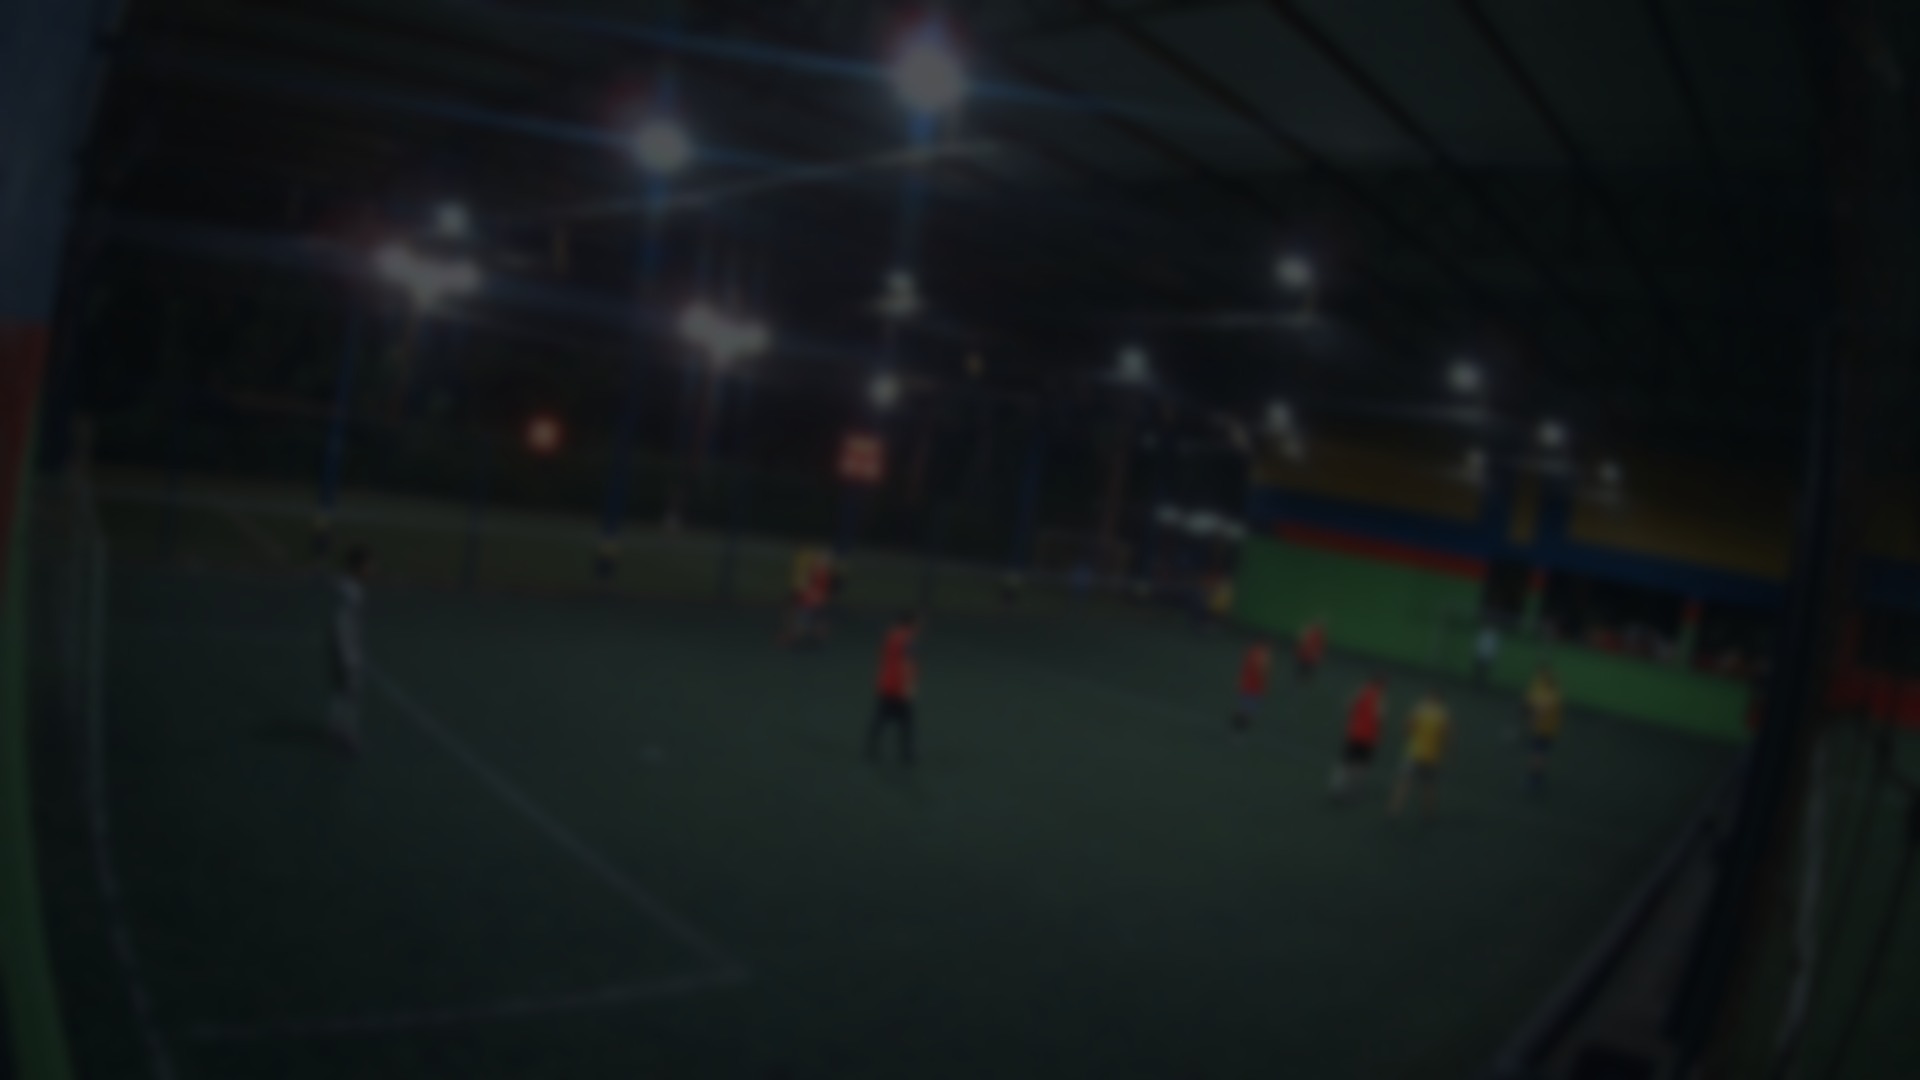
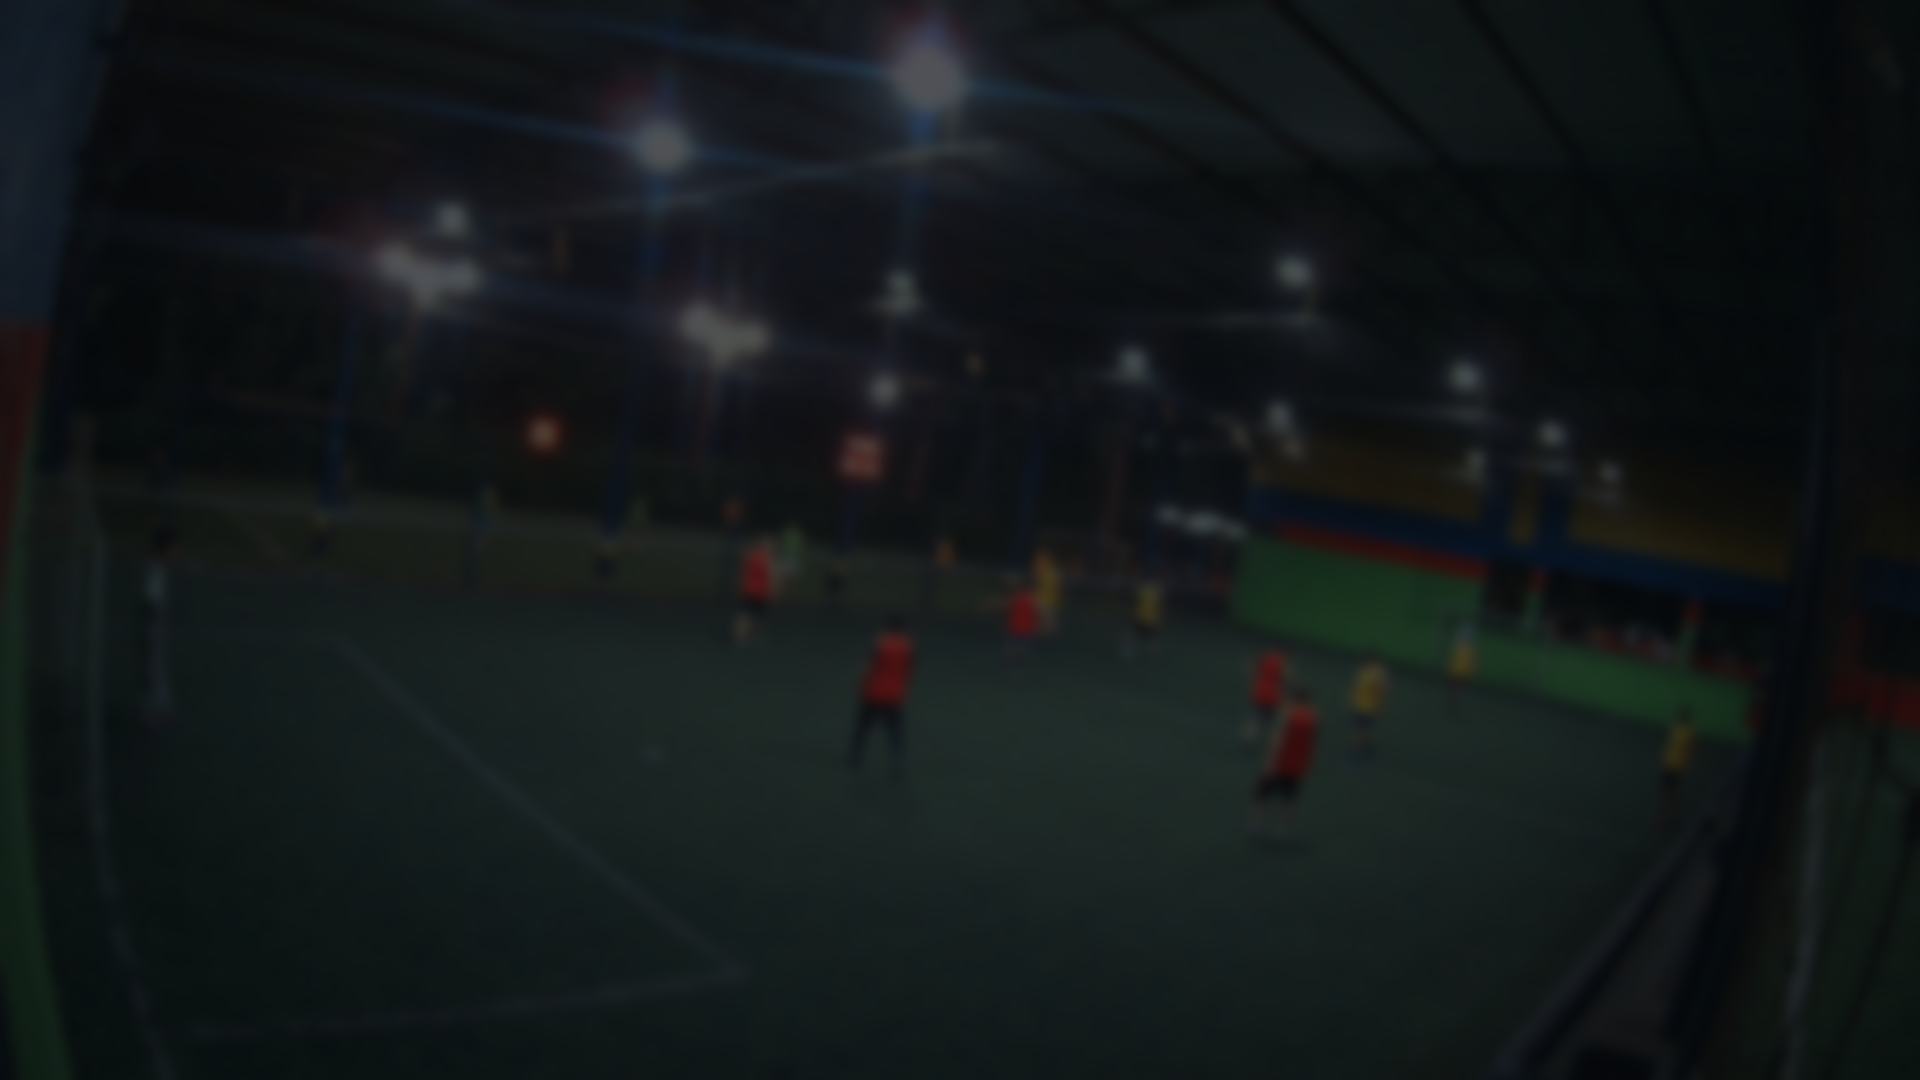
Remover desfoque do fundo das cartelas, mantendo a imagem nitida do video

diff --git a/web/assistente.html b/web/assistente.html
@@ -802,9 +802,9 @@
           <div style="margin-top:8px">
             <div class="row" style="justify-content:space-between; font-size:12px">
               <span>Desfoque (Blur TV)</span>
-              <span id="lblFundoDesfoque" style="font-weight:700">6 px</span>
+              <span id="lblFundoDesfoque" style="font-weight:700">0 px (sem desfoque)</span>
             </div>
-            <input type="range" id="fundoDesfoque" min="0" max="25" value="6" style="width:100%">
+            <input type="range" id="fundoDesfoque" min="0" max="25" value="0" style="width:100%">
           </div>
 
           <!-- Vinheta -->
@@ -3522,13 +3522,13 @@ function atualizarFiltrosCssFundo(){
   const b = parseFloat($('#fundoBrilho').value) || 55;
   const s = parseFloat($('#fundoSaturacao').value) || 115;
   const c = parseFloat($('#fundoContraste').value) || 115;
-  const d = parseFloat($('#fundoDesfoque').value) || 6;
+  const d = parseFloat($('#fundoDesfoque').value) || 0;
   const v = parseFloat($('#fundoVinheta').value) || 50;
 
   $('#lblFundoBrilho').textContent = `${b}%`;
   $('#lblFundoSaturacao').textContent = `${s}%`;
   $('#lblFundoContraste').textContent = `${c}%`;
-  $('#lblFundoDesfoque').textContent = `${d} px`;
+  $('#lblFundoDesfoque').textContent = d === 0 ? '0 px (nítido)' : `${d} px`;
   $('#lblFundoVinheta').textContent = `${v}%`;
 
   const img = $('#imgFundoPreview');
@@ -3584,7 +3584,7 @@ async function salvarFundoCartela(silencioso = false){
       brilho: (parseFloat($('#fundoBrilho').value) || 55) / 100,
       saturacao: (parseFloat($('#fundoSaturacao').value) || 115) / 100,
       contraste: (parseFloat($('#fundoContraste').value) || 115) / 100,
-      desfoque: parseFloat($('#fundoDesfoque').value) || 6,
+      desfoque: parseFloat($('#fundoDesfoque').value) || 0,
       vinheta: parseFloat($('#fundoVinheta').value) || 50,
       aplicar_video_clipes: $('#chkAplicarClipes').checked
     };
@@ -3639,19 +3639,19 @@ function aplicarPresetFundo(tipo){
     $('#fundoBrilho').value = 55;
     $('#fundoSaturacao').value = 115;
     $('#fundoContraste').value = 115;
-    $('#fundoDesfoque').value = 6;
+    $('#fundoDesfoque').value = 0;
     $('#fundoVinheta').value = 50;
   } else if(tipo === 'vivido'){
     $('#fundoBrilho').value = 60;
     $('#fundoSaturacao').value = 140;
     $('#fundoContraste').value = 125;
-    $('#fundoDesfoque').value = 4;
+    $('#fundoDesfoque').value = 0;
     $('#fundoVinheta').value = 40;
   } else if(tipo === 'cinema'){
     $('#fundoBrilho').value = 45;
     $('#fundoSaturacao').value = 80;
     $('#fundoContraste').value = 130;
-    $('#fundoDesfoque').value = 8;
+    $('#fundoDesfoque').value = 0;
     $('#fundoVinheta').value = 65;
   } else if(tipo === 'padrao'){
     $('#fundoBrilho').value = 100;

diff --git a/assistente_web.py b/assistente_web.py
@@ -1296,7 +1296,7 @@ class AjustarFundoPayload(BaseModel):
     brilho: float = 0.55
     saturacao: float = 1.15
     contraste: float = 1.15
-    desfoque: float = 6.0
+    desfoque: float = 0.0
     vinheta: float = 50.0
     aplicar_video_clipes: bool = False
 
